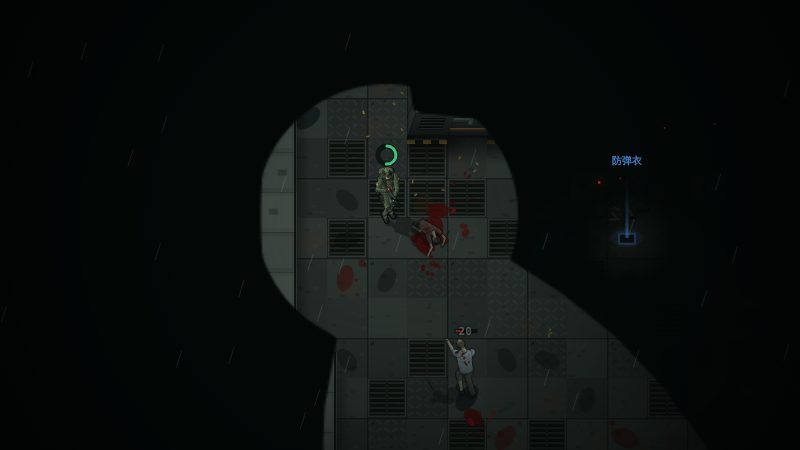
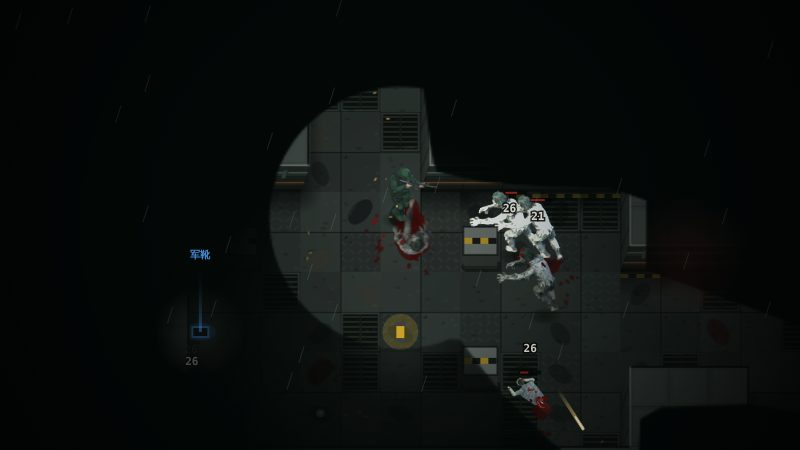
余烬 v11：主角和大部分丧尸改用用户的 3D 模型（离线按游戏镜头预渲染成图集，含走路/攻击/倒地）
Claude-Session: https://claude.ai/code/session_01M8QRZzFkej1E3pGbBVoBb4

diff --git a/yujin/render.js b/yujin/render.js
@@ -19,7 +19,7 @@ Rn.resize = function () {
 const el = (c, x, y, rx, ry, rot) => { c.beginPath(); c.ellipse(x, y, rx, ry, rot || 0, 0, TAU); c.fill(); };
 const circ = (c, x, y, r) => { c.beginPath(); c.arc(x, y, r, 0, TAU); c.fill(); };
 Rn.build = function (L) {
-  CELLS = new Map();
+  CELLS = new Map(); M3.tint.clear();
   const { W, H, g, th } = L, seed = (L.i + 1) * 977, theme = L.def.theme;
   const f = Rn.floor = document.createElement("canvas"), t = Rn.top = document.createElement("canvas"); f.width = t.width = W * T; f.height = t.height = H * T;
   const c = f.getContext("2d"), tc = t.getContext("2d"), at = (x, y) => x < 0 || y < 0 || x >= W || y >= H ? 1 : g[y * W + x];
@@ -348,14 +348,49 @@ function cell(type, v, k, f) { const key = type + v + "_" + k + "_" + f; let c =
   CELLS.set(key, c); return c; }
 function dirK(ang) { let a = ((ang % TAU) + TAU + Math.PI) % TAU - Math.PI, flip = false; if (Math.cos(a) < -1e-6) { a = Math.PI - a; if (a > Math.PI) a -= TAU; flip = true; } return [Math.max(0, Math.min(8, Math.round((a + Math.PI / 2) / (Math.PI / 8)))), flip]; }
 /* 尸体：6 帧倒地 + 血泊扩散；疯跑者倒地后还会抽搐。c 可以是地面图（烙进去永久保留） */
-function drawBody(c, b, k6, jx) { if (!b.key) return drawCorpse(c, b, Math.min(1, k6 / 3), 0); const [k, flip] = dirK(b.face), cl = cell(b.key, b.sv, k, 14 + k6), CL = cl.CL, d = k6 / 6, r = b.r, bx = -Math.cos(b.face) * r * 1.1 * d, by = -Math.sin(b.face) * r * .8 * d;
+/* ---------- 3D 模型角色 ----------
+   用户提供了两个 3D 模型（主角士兵、丧尸，各 30 多万面、无骨骼）。手机上没法实时渲染，所以用 tests/yj-3d/ 按游戏的斜俯视镜头
+   把它们从各个朝向、各个动作预先渲染成图集（m3d/hero.png、m3d/zombie.png，每格的偏移在 m3d/*.js 里），游戏里按朝向和动作取格子画。
+   主角：24 个朝向 ×（走路 8 帧 + 站立 + 倒地 6 帧）；丧尸：16 个朝向 ×（走路 8 + 站立 + 攻击 4 + 倒地 6）。
+   大部分丧尸共用这个丧尸模型，靠换色和缩放区分；爬行者仍用原来的画法。 */
+const M3 = { ok: false, img: {}, tint: new Map() };
+const Z3 = { walker: { k: 1 }, runner: { k: .93, tint: "#f0cdbb" }, spitter: { k: 1, tint: "#bfe98a" }, bloater: { k: 1.32, wx: 1.28, tint: "#aecf96" }, brute: { k: 1.55, tint: "#a3b0c8" }, elite: { k: 1.65, tint: "#f3d6d6" }, elite2: { k: 1.65, tint: "#dd8676" }, boss: { k: 2.1, tint: "#c6a6f4" } };
+(function () { const D = YJ.M3D; if (!D || !D.hero || !D.zombie) return; let left = 2; for (const n of ["hero", "zombie"]) { const im = new Image(); im.onload = () => { M3.img[n] = im; if (--left === 0) M3.ok = true; }; im.src = "m3d/" + n + ".png"; } })();
+/* 取一格（可带换色）。换色的格子用到才生成，换关时清掉 */
+function m3cell(name, row, col, tint) { const D = YJ.M3D[name], cs = D.cs, im = M3.img[name]; if (!tint) return [im, col * cs, row * cs];
+  const key = tint + row + "_" + col; let cv = M3.tint.get(key); if (!cv) { if (M3.tint.size > 700) M3.tint.clear(); cv = document.createElement("canvas"); cv.width = cv.height = cs; const g = cv.getContext("2d"); g.drawImage(im, col * cs, row * cs, cs, cs, 0, 0, cs, cs); g.globalCompositeOperation = "multiply"; g.fillStyle = tint; g.fillRect(0, 0, cs, cs); g.globalCompositeOperation = "destination-in"; g.drawImage(im, col * cs, row * cs, cs, cs, 0, 0, cs, cs); M3.tint.set(key, cv); } return [cv, 0, 0]; }
+function m3draw(c, name, row, col, x, y, k, tint, wx, white, alpha) { const D = YJ.M3D[name], cs = D.cs, o = D.off[row][col], w = D.cell * k, q = m3cell(name, row, col, tint), dx = x + o[0] * k * (wx || 1) - w * (wx || 1) / 2, dy = y + o[1] * k - w / 2;
+  if (alpha != null) c.globalAlpha = alpha; c.drawImage(q[0], q[1], q[2], cs, cs, dx, dy, w * (wx || 1), w);
+  if (white) { c.globalCompositeOperation = "lighter"; c.globalAlpha = white; c.drawImage(q[0], q[1], q[2], cs, cs, dx, dy, w * (wx || 1), w); c.drawImage(q[0], q[1], q[2], cs, cs, dx, dy, w * (wx || 1), w); c.globalCompositeOperation = "source-over"; } c.globalAlpha = 1; }
+const m3dir = (a, n) => ((Math.round(a / (TAU / n)) % n) + n) % n;
+function m3shadow(c, x, y, r) { const g = c.createRadialGradient(x, y, 0, x, y, r); g.addColorStop(0, "rgba(0,0,0,.5)"); g.addColorStop(.6, "rgba(0,0,0,.28)"); g.addColorStop(1, "rgba(0,0,0,0)"); c.save(); c.translate(x, y); c.scale(1, .5); c.translate(-x, -y); c.fillStyle = g; c.beginPath(); c.arc(x, y, r, 0, TAU); c.fill(); c.restore(); }
+function drawPlayer3(c, pl, S, time) { const D = YJ.M3D.hero, dead = G.state === "dead"; if (dead) pl.deadT = pl.deadT === undefined ? time : pl.deadT; else pl.deadT = undefined;
+  const still = gait(pl, 60 * (pl.dashT > 0 ? .5 : 1), dead), col = m3dir(pl.va, D.dirs), row = dead ? 8 + Math.min(6, Math.ceil((time - pl.deadT) / .1 + .01)) : still && pl.dashT <= 0 ? 8 : Math.floor((pl.gp || 0) * 8) & 7;
+  const hit = pl.hurtT > .2, rec = pl.flashT > 0 && !S.B.flame ? 2 : 0, a = col / D.dirs * TAU, x = pl.x - Math.cos(a) * rec, y = pl.y - Math.sin(a) * rec * .7;
+  if (dead) { const dk = (row - 8) / 6; c.fillStyle = "rgba(70,6,6,.85)"; el(c, pl.x - Math.cos(a) * 16 * dk, pl.y - Math.sin(a) * 12 * dk, 26 * dk, 16 * dk, a); }
+  m3shadow(c, pl.x, pl.y + 2, 20); m3draw(c, "hero", row, col, x, y, 1, null, 1, hit ? .6 : 0);
+  const mz = D.muz[col]; Rn.muz = { x: x + mz[0], y: y + mz[1], a: Math.atan2(Math.sin(a) * .77, Math.cos(a)) };
+  if (pl.flashT > 0 && !S.B.flame && !dead) { c.save(); c.translate(Rn.muz.x, Rn.muz.y); c.rotate(Rn.muz.a); const g = c.createRadialGradient(5, 0, 0, 5, 0, 22); g.addColorStop(0, "rgba(255,252,235,1)"); g.addColorStop(.3, "rgba(255,210,90,.9)"); g.addColorStop(.65, "rgba(255,110,30,.5)"); g.addColorStop(1, "rgba(200,40,10,0)"); c.fillStyle = g; c.beginPath(); c.moveTo(0, 0); c.lineTo(12, -9); c.lineTo(10, -2); c.lineTo(30, 0); c.lineTo(10, 2); c.lineTo(12, 9); c.closePath(); c.fill(); c.restore(); } }
+function drawEnemy3(c, e, time, pl) { const key = eKey(e), V = Z3[key], D = YJ.M3D.zombie, k = V.k, fl = e.flash > 0, still = gait(e, 72 * k, e.stag > 0 || e.st === "wind"), pw = e.st === "wind" ? 1 - e.w / e.tele.t : 0;
+  const row = e.st === "wind" && e.tele.type !== "leap" ? 9 + Math.min(1, Math.floor(pw * 2)) : e.atk > 0 ? 9 + Math.min(3, Math.floor((1 - e.atk / .32) * 4)) : still ? 8 : Math.floor((e.gp || 0) * 8) & 7, col = m3dir(e.ang, D.dirs); // 攻击 4 帧 / 站立 / 走路 8 帧
+  const tk = Math.floor(time * 9), jx = e.awake && h2(tk, (e.v * 997) | 0, 3) > .88 ? (h2(tk, 5, (e.v * 99) | 0) - .5) * 2.5 : 0, bk = fl ? 2.5 : e.stag > 0 ? 1.2 : 0; // 偶尔抽搐；受击时往后顿一下
+  m3shadow(c, e.x, e.y + 2, e.r * 1.35); m3draw(c, "zombie", row, col, e.x + jx - Math.cos(e.ang) * bk, e.y - Math.sin(e.ang) * bk, k, V.tint, V.wx, fl ? .65 : 0); e._eyes = null;
+  const top = 58 * k; if (e.type === "spitter" && e.cd < .9 && !fl) { const ch = 1 - Math.max(0, e.cd) / .9; c.fillStyle = `rgba(200,255,110,${.4 + ch * .4})`; circ(c, e.x + Math.cos(e.ang) * 12, e.y - 34 + Math.sin(e.ang) * 9, 3 + ch * 4.5); }
+  if (e.burn > 0) { c.fillStyle = "rgba(255,140,40,.45)"; circ(c, e.x, e.y - 24 * k, e.r * .9); }
+  if (e.slow > 0) { c.strokeStyle = "rgba(140,220,255,.8)"; c.lineWidth = 1.5; c.beginPath(); c.ellipse(e.x, e.y, e.r, e.r * .6, 0, 0, TAU); c.stroke(); }
+  if (e.hp < e.maxhp && !e.E.elite) { const w = Math.max(20, e.r * 1.6); c.fillStyle = "rgba(0,0,0,.7)"; c.fillRect(e.x - w / 2 - 1, e.y - top - 5, w + 2, 4); c.fillStyle = "#b3261c"; c.fillRect(e.x - w / 2, e.y - top - 4, w * Math.max(0, e.hp / e.maxhp), 2); } }
+function drawBody3(c, b, k6, jx) { const key = b.key || "boss", V = Z3[key], D = YJ.M3D.zombie, k = V.k, col = m3dir(b.face, D.dirs), d = k6 / 6, r = b.r, bx = -Math.cos(b.face) * r * 1.3 * d, by = -Math.sin(b.face) * r * 1.0 * d;
+  c.fillStyle = "rgba(64,6,6,.82)"; el(c, b.x + bx, b.y + by, r * 1.9 * d, r * 1.25 * d, b.v * 3); el(c, b.x + bx * 1.8 + r * .5, b.y + by * 1.6 + r * .3, r * .8 * d, r * .5 * d, b.v * 5);
+  m3draw(c, "zombie", 12 + k6, col, b.x + (jx || 0), b.y, k, V.tint, V.wx, 0, k6 >= 6 ? .92 : 1); }
+function drawBody(c, b, k6, jx) { if (M3.ok && b.key !== "crawler") return drawBody3(c, b, k6, jx); if (!b.key) return drawCorpse(c, b, Math.min(1, k6 / 3), 0); const [k, flip] = dirK(b.face), cl = cell(b.key, b.sv, k, 14 + k6), CL = cl.CL, d = k6 / 6, r = b.r, bx = -Math.cos(b.face) * r * 1.1 * d, by = -Math.sin(b.face) * r * .8 * d;
   c.fillStyle = "rgba(64,6,6,.82)"; el(c, b.x + bx, b.y + by, r * 1.9 * d, r * 1.25 * d, b.v * 3); el(c, b.x + bx * 1.8 + r * .5, b.y + by * 1.6 + r * .3, r * .8 * d, r * .5 * d, b.v * 5); el(c, b.x + bx * .4 - r * .9 * d, b.y + by + r * .5 * d, r * .5 * d, r * .32 * d, 1);
   c.save(); c.translate(b.x + (jx || 0), b.y); if (flip) c.scale(-1, 1); c.drawImage(cl.cv, -CL / 2, -CL * .74, CL, CL); c.restore(); }
 function gait(o, cyc, hold) { const mv = Math.hypot(o.x - (o._lx === undefined ? o.x : o._lx), o.y - (o._ly === undefined ? o.y : o._ly)); o._lx = o.x; o._ly = o.y; if (mv > .04 && mv < 30 && !hold) { o.gp = ((o.gp || 0) + mv / cyc) % 1; o.still = 0; } else if (!G.pausedDraw) o.still = (o.still || 0) + 1; return o.still > 7; }
 /* 影子：椭圆，朝背光方向偏移拉长；身体起伏时略微缩放 */
 function shadow(c, x, y, r, ang, k, sm) { c.save(); c.translate(x + Math.cos(ang) * r * .7 * k, y + Math.sin(ang) * r * .7 * k); c.rotate(ang); c.fillStyle = "rgba(0,0,0,.5)"; c.beginPath(); c.ellipse(0, 0, r * (.85 + .6 * k) * sm, r * .5 * sm, 0, 0, TAU); c.fill(); c.restore(); }
-Rn.figure = figure;
+Rn.figure = figure; Rn.M3 = M3;
 function drawPlayer(c, pl, S, time) {
+  if (M3.ok) return drawPlayer3(c, pl, S, time);
   const dead = G.state === "dead"; if (dead) pl.deadT = pl.deadT === undefined ? time : pl.deadT; else pl.deadT = undefined;
   const dk = dead ? Math.min(6, Math.ceil((time - pl.deadT) / .1 + .01)) / 6 : 0; // 死亡 6 帧：后仰倒地
   const stand = (gait(pl, CYC("player"), pl.dashT > 0 || dead) && pl.dashT <= 0) || dead, p = pl.dashT > 0 ? (pl.dashT * 7) % 1 : pl.gp || 0;
@@ -370,6 +405,7 @@ function drawPlayer(c, pl, S, time) {
 }
 function eKey(e) { return e.type === "elite" ? (e.look === "brute" ? "elite2" : "elite") : e.type; }
 function drawEnemy(c, e, time, pl) {
+  if (M3.ok && e.type !== "crawler") return drawEnemy3(c, e, time, pl);
   const E = e.E, r = e.r, fl = e.flash > 0, t = e.type; let top = -r - 16;
   if (t === "boss") { shadow(c, e.x, e.y, r, Math.atan2(e.y - pl.y, e.x - pl.x), 1, 1); const k = r / 13, C = x => fl ? "#fff" : x; c.save(); c.translate(e.x, e.y - 10); c.scale(1, .8); c.rotate(e.ang); c.scale(k, k); c.lineCap = "round";
     for (let i = 0; i < 6; i++) { const a = i / 6 * TAU + Math.sin(time * 2 + i) * .3, p = [Math.cos(a) * 8, Math.sin(a) * 8, Math.cos(a + .5) * 18, Math.sin(a + .5) * 18, Math.cos(a + Math.sin(time * 3 + i) * .6) * 24, Math.sin(a + Math.sin(time * 3 + i) * .6) * 24]; for (const [col, w] of [[OUTC, 5.2], [C("#5a3f6a"), 3.4]]) { c.strokeStyle = col; c.lineWidth = w; c.beginPath(); c.moveTo(p[0], p[1]); c.quadraticCurveTo(p[2], p[3], p[4], p[5]); c.stroke(); } }
@@ -462,7 +498,7 @@ Rn.draw = function (time) {
   // —— 发光的东西画在黑暗之上：曳光弹、火光、爆炸、红眼、掉落光柱 ——
   c.setTransform(dpr * sc, 0, 0, dpr * sc, ox * dpr * sc, oy * dpr * sc); c.globalCompositeOperation = "lighter"; c.lineCap = "round";
   for (const l of Rn.reds) if (vis(l.x, l.y, 60)) { const a = .16 + Math.sin(time * 3 + l.f) * .1, g = c.createRadialGradient(l.x, l.y + 10, 0, l.x, l.y + 10, 60); g.addColorStop(0, `rgba(255,30,20,${a})`); g.addColorStop(1, "rgba(255,30,20,0)"); c.fillStyle = g; c.fillRect(l.x - 60, l.y - 50, 120, 120); }
-  for (const b0 of L.bul) { if (b0.flame || b0.gren || b0.enemy) continue; const b = { x: b0.x, y: b0.y - 30, vx: b0.vx, vy: b0.vy, ex: b0.ex, crit: b0.crit }, l = Math.hypot(b.vx, b.vy), k = (b.ex ? 16 : 46) / l, x0 = b.x - b.vx * k, y0 = b.y - b.vy * k, g = c.createLinearGradient(x0, y0, b.x, b.y), col = b.ex ? "255,140,50" : b.crit ? "255,240,170" : "255,205,110"; g.addColorStop(0, `rgba(${col},0)`); g.addColorStop(1, `rgba(${col},.9)`);
+  for (const b0 of L.bul) { if (b0.flame || b0.gren || b0.enemy) continue; const b = { x: b0.x, y: b0.y - 34, vx: b0.vx, vy: b0.vy, ex: b0.ex, crit: b0.crit }, l = Math.hypot(b.vx, b.vy), k = (b.ex ? 16 : 46) / l, x0 = b.x - b.vx * k, y0 = b.y - b.vy * k, g = c.createLinearGradient(x0, y0, b.x, b.y), col = b.ex ? "255,140,50" : b.crit ? "255,240,170" : "255,205,110"; g.addColorStop(0, `rgba(${col},0)`); g.addColorStop(1, `rgba(${col},.9)`);
     c.strokeStyle = g; c.lineWidth = b.ex ? 6 : 3.4; c.beginPath(); c.moveTo(x0, y0); c.lineTo(b.x, b.y); c.stroke(); c.strokeStyle = "rgba(255,255,240,.95)"; c.lineWidth = b.ex ? 2.4 : 1.1; c.beginPath(); c.moveTo(b.x - b.vx * k * .3, b.y - b.vy * k * .3); c.lineTo(b.x, b.y); c.stroke(); }
   if (pl.flashT > 0 && !S.B.flame && Rn.muz) { const mx = Rn.muz.x, my = Rn.muz.y, g = c.createRadialGradient(mx, my, 0, mx, my, 150); g.addColorStop(0, "rgba(255,190,90,.38)"); g.addColorStop(1, "rgba(255,120,20,0)"); c.fillStyle = g; c.fillRect(mx - 150, my - 150, 300, 300); }
   for (const p of L.parts) if (p.glow) { c.globalAlpha = Math.min(1, p.life / p.max * 1.5); c.fillStyle = p.c; c.fillRect(p.x - p.s / 2, p.y - p.s / 2, p.s, p.s); } c.globalAlpha = 1;

diff --git a/tests/yj-3d/render.html b/tests/yj-3d/render.html
@@ -1,0 +1,53 @@
+<!doctype html><meta charset="utf-8"><body style="margin:0;background:#334"><canvas id="sheet"></canvas>
+<!-- 余烬·尸潮：把用户的 3D 模型（静态、无骨骼）按游戏的斜俯视镜头预渲染成角色图集。
+     模型没有骨骼，这里按几何位置给腿/手臂分组，绕髋/肩转动，做出走路、攻击、倒地的姿势。
+     用法见 tests/yj-3d/render.js -->
+<script type="importmap">{"imports":{"three":"./node_modules/three/build/three.module.js","three/addons/":"./node_modules/three/examples/jsm/"}}</script>
+<script type="module">
+import * as THREE from "three"; import { GLTFLoader } from "three/addons/loaders/GLTFLoader.js";
+const q = new URLSearchParams(location.search), name = q.get("m") || "zombie", D2R = Math.PI / 180;
+const CFG = {
+  hero: { file: "hero.glb", beta: 31, stride: 12, hipY: .50, delta: 32, pivot: [-.10, -.04], dirs: 24, U: 78,
+    legs: [{ hip: [-.18, .50, -.04], foot: [-.29, 0, -.06] }, { hip: [-.02, .50, -.04], foot: [.08, 0, .02] }], tip: [.34, .70, .17],
+    rows: [...Array(8).keys()].map(k => ({ walk: k / 8 })).concat([{}], [1, 2, 3, 4, 5, 6].map(k => ({ dead: k / 6 }))) },
+  zombie: { file: "zombie.glb", beta: 90, stride: 90, hipY: .42, delta: 46, pivot: [0, -.11], dirs: 16, U: 78,
+    legs: [{ hip: [-.10, .42, -.14], foot: [-.11, 0, -.46] }, { hip: [.05, .42, -.08], foot: [.01, 0, .02] }],
+    arms: [{ sh: [-.17, .74, .08], hand: [-.17, .47, .46] }, { sh: [.17, .74, .08], hand: [.19, .47, .46] }],
+    rows: [...Array(8).keys()].map(k => ({ walk: k / 8 })).concat([{ walk: .25, still: 1 }], [[25, 5], [36, 8], [-26, -14], [-10, -6]].map(([arm, lean]) => ({ walk: .25, still: 1, arm, lean })), [1, 2, 3, 4, 5, 6].map(k => ({ dead: k / 6 }))) }
+};
+const C = CFG[name], CELL = 112, RES = 1.25, CS = Math.round(CELL * RES), SSAA = 3, PHI = 50 * D2R, sm = (a, b, x) => { const t = Math.max(0, Math.min(1, (x - a) / (b - a))); return t * t * (3 - 2 * t); };
+const rd = new THREE.WebGLRenderer({ antialias: true, alpha: true, preserveDrawingBuffer: true }); rd.setSize(CS * SSAA, CS * SSAA, false); rd.setClearColor(0, 0); rd.outputColorSpace = THREE.SRGBColorSpace;
+const scene = new THREE.Scene(); scene.add(new THREE.HemisphereLight(0xdfe8ff, 0x3a3a34, 2.0)); const key = new THREE.DirectionalLight(0xfff4e0, 2.4); key.position.set(-2.5, 5, 3); scene.add(key); const rim = new THREE.DirectionalLight(0x9fc0ff, .9); rim.position.set(3, 2, -3); scene.add(rim);
+const cam = new THREE.OrthographicCamera(-1, 1, 1, -1, .1, 30); cam.position.set(0, Math.sin(PHI) * 8, Math.cos(PHI) * 8); cam.lookAt(0, 0, 0);
+new GLTFLoader().load(C.file, g => { let mesh; g.scene.traverse(o => { if (o.isMesh) mesh = o; }); scene.add(g.scene); if (mesh.material) { mesh.material.metalness = 0; mesh.material.roughness = .85; }
+  const geo = mesh.geometry, P0 = geo.attributes.position.array.slice(), N0 = geo.attributes.normal.array.slice(), n = P0.length / 3, P = geo.attributes.position.array, N = geo.attributes.normal.array;
+  const sa = C.stride * D2R, sx = Math.cos(sa), sz = Math.sin(sa); // 迈步方向（模型水平面内）
+  // —— 给每个顶点分组：属于哪条腿 / 哪只手臂，权重多少 ——
+  const WL = new Float32Array(n), LI = new Uint8Array(n), WA = new Float32Array(n), AI = new Uint8Array(n);
+  for (let i = 0; i < n; i++) { const x = P0[i * 3], y = P0[i * 3 + 1], z = P0[i * 3 + 2]; let wa = 0;
+    if (C.arms) for (let k = 0; k < 2; k++) { const A = C.arms[k], dx = A.hand[0] - A.sh[0], dy = A.hand[1] - A.sh[1], dz = A.hand[2] - A.sh[2], L2 = dx * dx + dy * dy + dz * dz, t = ((x - A.sh[0]) * dx + (y - A.sh[1]) * dy + (z - A.sh[2]) * dz) / L2, tc = Math.max(0, Math.min(1.25, t)), d = Math.hypot(x - A.sh[0] - dx * tc, y - A.sh[1] - dy * tc, z - A.sh[2] - dz * tc), w = (1 - sm(.08, .13, d)) * sm(.04, .3, t); if (w > wa) { wa = w; AI[i] = k; } }
+    WA[i] = wa; let best = 1e9; for (let k = 0; k < 2; k++) { const Lg = C.legs[k], t = Math.max(0, Math.min(1, (Lg.hip[1] - y) / Lg.hip[1])), cx = Lg.hip[0] + (Lg.foot[0] - Lg.hip[0]) * t, cz = Lg.hip[2] + (Lg.foot[2] - Lg.hip[2]) * t, d = Math.hypot(x - cx, z - cz); if (d < best) { best = d; LI[i] = k; } }
+    WL[i] = (1 - sm(C.hipY - .10, C.hipY + .03, y)) * (1 - wa) * (best < .2 ? 1 : 0); }
+  const rot = (i, J, ang, w) => { if (!w) return; const c = Math.cos(ang), s = Math.sin(ang), dx = P[i * 3] - J[0], dy = P[i * 3 + 1] - J[1], dz = P[i * 3 + 2] - J[2], ds = dx * sx + dz * sz, dl = -dx * sz + dz * sx, ds2 = ds * c - dy * s, dy2 = ds * s + dy * c, nx = J[0] + ds2 * sx - dl * sz, ny = J[1] + dy2, nz = J[2] + ds2 * sz + dl * sx;
+    P[i * 3] += (nx - P[i * 3]) * w; P[i * 3 + 1] += (ny - P[i * 3 + 1]) * w; P[i * 3 + 2] += (nz - P[i * 3 + 2]) * w;
+    const ax = N[i * 3], ay = N[i * 3 + 1], az = N[i * 3 + 2], as = ax * sx + az * sz, al = -ax * sz + az * sx, as2 = as * c - ay * s, ay2 = as * s + ay * c; N[i * 3] += (as2 * sx - al * sz - ax) * w; N[i * 3 + 1] += (ay2 - ay) * w; N[i * 3 + 2] += (as2 * sz + al * sx - az) * w; };
+  function poseTo(o) { P.set(P0); N.set(N0); const ph = (o.walk || 0) * 2 * Math.PI, d = C.delta * D2R, sw = (1 - Math.cos(ph)) / 2, legA = [d * sw, -d * sw], dead = o.dead || 0, lean = (o.lean || 0) * D2R, arm = (o.arm || 0) * D2R;
+    const lift = [Math.max(0, Math.sin(ph)) * .035, Math.max(0, -Math.sin(ph)) * .035], asw = C.arms ? [Math.sin(ph) * 7 * D2R + arm, -Math.sin(ph) * 7 * D2R + arm] : null, pel = [C.pivot[0], C.hipY, C.pivot[1]];
+    for (let i = 0; i < n; i++) { const k = LI[i], wl = WL[i]; if (wl) { rot(i, C.legs[k].hip, legA[k] * (1 - dead * .6), wl); P[i * 3 + 1] += lift[k] * wl * (1 - dead); }
+      if (WA[i]) rot(i, C.arms[AI[i]].sh, asw[AI[i]] + dead * 55 * D2R, WA[i]);
+      if (lean) rot(i, pel, lean, sm(C.hipY - .03, C.hipY + .12, P0[i * 3 + 1]) * (1 - wl)); }
+    let ymin = 1e9; for (let i = 0; i < n; i += 3) if (P[i * 3 + 1] < ymin) ymin = P[i * 3 + 1];
+    if (dead) { const a = dead * dead * 86 * D2R, J = [C.pivot[0] - sx * .12, ymin, C.pivot[1] - sz * .12]; for (let i = 0; i < n; i++) rot(i, J, a, 1); ymin = 1e9; for (let i = 0; i < n; i += 3) if (P[i * 3 + 1] < ymin) ymin = P[i * 3 + 1]; } // 向后仰倒
+    for (let i = 0; i < n; i++) P[i * 3 + 1] -= ymin; geo.attributes.position.needsUpdate = true; geo.attributes.normal.needsUpdate = true; geo.computeBoundingSphere(); }
+  const sheet = document.getElementById("sheet"); sheet.width = C.dirs * CS; sheet.height = C.rows.length * CS; const sg = sheet.getContext("2d"); sg.imageSmoothingQuality = "high";
+  const meta = { cs: CS, cell: CELL, dirs: C.dirs, rows: C.rows.length, U: C.U, off: [], muz: [] }, half = CELL / 2 / C.U, cp = Math.cos(PHI), sp = Math.sin(PHI), beta = C.beta * D2R;
+  mesh.frustumCulled = false; const root = g.scene;
+  C.rows.forEach((o, r) => { poseTo(o); const offs = [];
+    for (let c = 0; c < C.dirs; c++) { const a = c / C.dirs * 2 * Math.PI, rho = beta - a, cr = Math.cos(rho), sr = Math.sin(rho); root.rotation.y = rho; const px = C.pivot[0], pz = C.pivot[1]; root.position.set(-(px * cr + pz * sr), 0, -(-px * sr + pz * cr)); root.updateMatrixWorld(true);
+      let x0 = 1e9, x1 = -1e9, y0 = 1e9, y1 = -1e9; for (let i = 0; i < n; i += 11) { const x = P[i * 3], y = P[i * 3 + 1], z = P[i * 3 + 2], X = x * cr + z * sr + root.position.x, Z = -x * sr + z * cr + root.position.z, sy = y * cp - Z * sp; if (X < x0) x0 = X; if (X > x1) x1 = X; if (sy < y0) y0 = sy; if (sy > y1) y1 = sy; }
+      const bx = (x0 + x1) / 2, by = (y0 + y1) / 2; cam.left = bx - half; cam.right = bx + half; cam.top = by + half; cam.bottom = by - half; cam.updateProjectionMatrix(); rd.render(scene, cam);
+      sg.drawImage(rd.domElement, c * CS, r * CS, CS, CS); offs.push([Math.round(bx * C.U * 10) / 10, Math.round(-by * C.U * 10) / 10]);
+      if (r === 8 && C.tip) { const x = C.tip[0], y = C.tip[1], z = C.tip[2], X = x * cr + z * sr + root.position.x, Z = -x * sr + z * cr + root.position.z; meta.muz.push([Math.round(X * C.U * 10) / 10, Math.round(-(y * cp - Z * sp) * C.U * 10) / 10]); } }
+    meta.off.push(offs); });
+  window.result = { meta, png: sheet.toDataURL("image/png") }; }, undefined, e => { window.err = String(e); });
+</script>

diff --git a/yujin/m3d/hero.js b/yujin/m3d/hero.js
@@ -1,0 +1,2 @@
+/* 由 tests/yj-3d/render.js 生成 */
+(YJ.M3D = YJ.M3D || {}).hero = {"cs":140,"cell":112,"dirs":24,"rows":15,"U":78,"off":[[[9.7,-21.4],[9.5,-22.3],[7.9,-21.2],[5.7,-19.4],[2.7,-18],[-1.5,-17.2],[-3.1,-16.9],[-2.9,-17.2],[-2.8,-18],[-5.9,-19.3],[-7.8,-21],[-9.1,-23],[-9.7,-24.8],[-9.5,-26.4],[-7.9,-26.1],[-5.7,-25.4],[-2.7,-24.9],[1.5,-25.9],[3.1,-25.9],[2.9,-25.2],[2.8,-23.9],[5.9,-22.2],[7.8,-20.3],[9.1,-20.7]],[[11.1,-22.6],[10.9,-23.2],[9.4,-21.5],[7.1,-20],[2.7,-18.9],[-1.5,-18.2],[-3.1,-18.1],[-2.9,-18.4],[-2.8,-19.3],[-6.5,-20.5],[-8.7,-22],[-10.3,-23.7],[-11.1,-25.5],[-10.9,-26.7],[-9.4,-27.1],[-7.1,-26.6],[-2.7,-26.4],[1.5,-27.5],[3.1,-27.8],[2.9,-27.2],[2.8,-25.9],[6.5,-24],[8.7,-22],[10.3,-22.1]],[[13.2,-24.3],[13.1,-23.4],[10.9,-22.4],[7.1,-21.6],[2.7,-21.1],[-1.5,-21],[-3.1,-21.2],[-2.9,-21.7],[-2.8,-22.5],[-6.7,-23.5],[-10,-24.6],[-12,-25.8],[-13.2,-27],[-13.1,-27.7],[-10.9,-28.3],[-7.1,-28.5],[-2.7,-28.9],[1.5,-30.5],[3.1,-31.3],[2.9,-30.8],[2.8,-29.5],[6.7,-27.4],[10,-24.9],[12,-24.6]],[[13.2,-23.6],[13.2,-23.1],[10.9,-22.8],[7.1,-22.8],[2.7,-22.9],[-1.5,-23.3],[-3.1,-23.7],[-2.9,-24.3],[-2.8,-25],[-6.7,-25.8],[-10,-26.2],[-12,-26.7],[-13.2,-27.2],[-13.2,-27.7],[-10.9,-28.3],[-7.1,-28.4],[-2.7,-28.7],[1.5,-30.2],[3.1,-30.9],[2.9,-30.7],[2.8,-29.7],[6.7,-27.7],[10,-25],[12,-24.3]],[[13,-23.1],[12.7,-22.9],[10.9,-22.7],[7.1,-22.1],[2.7,-21.7],[-1.5,-21.6],[-3.1,-21.9],[-2.9,-22.5],[-2.8,-23.2],[-6.7,-24.1],[-10,-24.7],[-12,-25.3],[-13,-26.1],[-12.7,-26.8],[-10.9,-28],[-7.1,-27.9],[-2.7,-27.9],[1.5,-29.3],[3.1,-29.9],[2.9,-29.7],[2.8,-28.7],[6.7,-26.5],[10,-24],[12,-23.4]],[[13.2,-23.7],[13.2,-23.1],[10.9,-22.5],[7.1,-22.1],[2.7,-22],[-1.5,-22.1],[-3.1,-22.5],[-2.9,-23.1],[-2.8,-23.8],[-6.7,-24.5],[-10,-25],[-12,-25.5],[-13.2,-26],[-13.2,-26.5],[-10.9,-27.4],[-7.1,-28.2],[-2.7,-28.7],[1.5,-30.2],[3.1,-30.9],[2.9,-30.8],[2.8,-29.8],[6.7,-27.7],[10,-25],[12,-24.3]],[[13.2,-23.1],[13.1,-23],[10.9,-23],[7.1,-22.2],[2.7,-21.7],[-1.5,-21.6],[-3.1,-21.8],[-2.9,-22.3],[-2.8,-23.1],[-6.7,-24],[-10,-25.2],[-12,-26.4],[-13.2,-27],[-13.1,-26.9],[-10.9,-27.1],[-7.1,-27.3],[-2.7,-27.7],[1.5,-29.3],[3.1,-30.1],[2.9,-29.6],[2.8,-28.3],[6.7,-26.2],[10,-23.8],[12,-23.4]],[[11.1,-22],[10.9,-22.6],[9.4,-22.1],[7.1,-20.6],[2.7,-19.5],[-1.5,-18.9],[-3.1,-18.7],[-2.9,-19.1],[-2.8,-19.9],[-6.5,-21.1],[-8.7,-22.6],[-10.3,-24.4],[-11.1,-26.1],[-10.9,-26.9],[-9.4,-26.4],[-7.1,-26],[-2.7,-25.8],[1.5,-26.9],[3.1,-27.2],[2.9,-26.5],[2.8,-25.2],[6.5,-23.4],[8.7,-21.4],[10.3,-21.5]],[[9.7,-21.4],[9.5,-22.3],[7.9,-21.2],[5.7,-19.4],[2.7,-18],[-1.5,-17.2],[-3.1,-16.9],[-2.9,-17.2],[-2.8,-18],[-5.9,-19.3],[-7.8,-21],[-9.1,-23],[-9.7,-24.8],[-9.5,-26.4],[-7.9,-26.1],[-5.7,-25.4],[-2.7,-24.9],[1.5,-25.9],[3.1,-25.9],[2.9,-25.2],[2.8,-23.9],[5.9,-22.2],[7.8,-20.3],[9.1,-20.7]],[[8.6,-21.2],[8.3,-22.4],[6.8,-22],[4.7,-20.5],[0.9,-19.5],[-2.8,-18.8],[-3.8,-18.7],[-3,-19.1],[-2.3,-19.9],[-5.3,-21],[-7,-22.5],[-8.1,-24.3],[-8.6,-25.8],[-8.3,-27.1],[-6.8,-26.1],[-4.7,-25.1],[-0.9,-24.9],[2.8,-25.7],[3.8,-25.7],[3,-25],[2.3,-23.7],[5.3,-22],[7,-20],[8.1,-20.3]],[[4.3,-20.6],[3.4,-22.7],[1.4,-24.5],[-1.6,-23.9],[-4.6,-23.7],[-6.5,-23.7],[-6,-24.1],[-3.5,-24.6],[-1,-25.4],[-2.5,-26.2],[-3.7,-27.2],[-4.4,-28.1],[-4.3,-28.5],[-3.4,-28.1],[-1.4,-26],[1.6,-24.2],[4.6,-24.7],[6.5,-25],[6,-24.8],[3.5,-23.9],[1,-22.7],[2.5,-21.3],[3.7,-19.6],[4.4,-18.8]],[[-6.4,-18.9],[-7.3,-22.5],[-8.5,-26.3],[-9.9,-29],[-10.8,-30.2],[-10.8,-31.4],[-9.3,-32.5],[-4.3,-33.5],[1.4,-34.1],[3,-34.4],[4.3,-34.3],[5.3,-33.7],[6.4,-32.4],[7.3,-28.8],[8.5,-25.1],[9.9,-24.2],[10.8,-23.6],[10.8,-22.9],[9.3,-22.3],[4.3,-21.2],[-1.4,-20.1],[-3,-19.1],[-4.3,-18.2],[-5.3,-17.6]],[[-16.2,-16.7],[-18,-20.6],[-18.6,-26.3],[-18.7,-32],[-18.1,-37.3],[-16,-40.3],[-12.3,-42.6],[-5.4,-44.1],[4.2,-44.5],[7.7,-43.9],[10.9,-42.2],[13.9,-38.9],[16.2,-33.6],[18,-27.9],[18.6,-24.9],[18.7,-22.4],[18.1,-20.1],[16,-18.1],[12.3,-16.6],[5.4,-15.4],[-4.2,-14.5],[-7.7,-14.1],[-10.9,-14.4],[-13.9,-15.3]],[[-30.1,-13.1],[-32.8,-17.5],[-33.2,-23.3],[-31.3,-30.8],[-27.3,-37.7],[-22,-43.5],[-15.8,-47.8],[-6.5,-50.2],[6.6,-50.5],[13,-48.8],[19.4,-44.8],[25.5,-38.8],[30.1,-32.1],[32.8,-27.2],[33.2,-22.2],[31.3,-17.3],[27.3,-12.9],[22,-6.7],[15.8,-1.9],[6.5,-0.3],[-6.6,0.3],[-13,0],[-19.4,-2.6],[-25.5,-8.1]],[[-43.1,-0.3],[-46.7,-10.4],[-46.7,-19],[-43.4,-26.2],[-37,-32.9],[-28.2,-38.7],[-18.1,-43.7],[-7.3,-46.6],[9,-46.9],[18.2,-45],[28.3,-41.5],[36.9,-36.1],[43.1,-29.6],[46.7,-22.4],[46.7,-14.4],[43.4,-3.4],[37,3.2],[28.2,8.8],[18.1,13.5],[7.3,16],[-9,16.1],[-18.2,13.9],[-28.3,10.5],[-36.9,5.8]]],"muz":[[37.9,-37.9],[37.5,-30.3],[34.6,-23],[29.3,-16.6],[22.1,-11.4],[13.3,-7.8],[3.6,-6.1],[-6.3,-6.4],[-15.8,-8.6],[-24.2,-12.6],[-31,-18.2],[-35.6,-24.9],[-37.9,-32.3],[-37.5,-39.9],[-34.6,-47.2],[-29.3,-53.6],[-22.1,-58.8],[-13.3,-62.4],[-3.6,-64.1],[6.3,-63.8],[15.8,-61.6],[24.2,-57.6],[31,-52],[35.6,-45.3]]};

diff --git a/yujin/m3d/zombie.js b/yujin/m3d/zombie.js
@@ -1,0 +1,2 @@
+/* 由 tests/yj-3d/render.js 生成 */
+(YJ.M3D = YJ.M3D || {}).zombie = {"cs":140,"cell":112,"dirs":16,"rows":19,"U":78,"off":[[[8.6,-21.1],[7.7,-19.7],[6.8,-15.5],[5.6,-12.5],[0,-12.4],[-10.7,-14.6],[-12.8,-17.7],[-12.1,-21.3],[-8.6,-26.9],[-7.7,-29.9],[-6.8,-28.3],[-5.6,-26.1],[0,-23.6],[10.7,-21.3],[12.8,-20],[12.1,-19.9]],[[11.3,-21.5],[8.6,-20.6],[7.6,-16.5],[6,-13.5],[0,-13.3],[-11.1,-15.2],[-14.4,-18.6],[-14.2,-22.2],[-11.3,-27.4],[-8.6,-31],[-7.6,-29.9],[-6,-27.9],[0,-25.4],[11.1,-23.1],[14.4,-21.5],[14.2,-20.9]],[[16.1,-22.3],[12.8,-22.6],[11,-18.8],[7.8,-15.7],[0,-15.5],[-11.3,-17.3],[-17.1,-20.6],[-18.2,-25.4],[-16.1,-29.1],[-12.8,-32.7],[-11,-33.7],[-7.8,-32.2],[0,-30.1],[11.3,-27.4],[17.1,-25],[18.2,-23.2]],[[16.6,-23],[15.4,-21.7],[14.2,-20.2],[9.4,-17.1],[0,-16.9],[-11.1,-18.8],[-15.7,-22.2],[-17.5,-27.8],[-16.6,-31.2],[-15.4,-33.5],[-14.2,-34.9],[-9.4,-35],[0,-34.6],[11.1,-32.1],[15.7,-28.7],[17.5,-25.5]],[[14.2,-23.6],[14.8,-21.5],[14.4,-20.4],[9.9,-18],[0,-17.9],[-10.7,-20.1],[-14,-23.6],[-15.2,-29.3],[-14.2,-32.8],[-14.8,-34.5],[-14.4,-35.6],[-9.9,-35.7],[0,-35.3],[10.7,-34.2],[14,-30.5],[15.2,-26.7]],[[15.7,-23.6],[16.8,-22.3],[15.3,-21.1],[10,-18.1],[0,-18],[-10.3,-20.5],[-14.4,-24.1],[-15.7,-29.9],[-15.7,-33.1],[-16.8,-35.3],[-15.3,-36.8],[-10,-36.9],[0,-35.5],[10.3,-32.7],[14.4,-29.7],[15.7,-26.4]],[[15.1,-23.2],[14.8,-23.5],[12.5,-20.1],[8.7,-17.1],[0,-17],[-10.1,-19.6],[-15.2,-23.3],[-15.7,-28],[-15.1,-31.8],[-14.8,-34.4],[-12.5,-34.5],[-8.7,-33.1],[0,-31],[10.1,-28.7],[15.2,-26.7],[15.7,-24.6]],[[10.4,-21.8],[10,-22.1],[8.6,-17.1],[6.6,-14.1],[0,-14.1],[-10.3,-16.5],[-13.1,-20.2],[-12.4,-23.7],[-10.4,-29],[-10,-31.3],[-8.6,-30.2],[-6.6,-28.2],[0,-25.8],[10.3,-23.4],[13.1,-22.2],[12.4,-21.6]],[[16.1,-22.3],[12.8,-22.6],[11,-18.8],[7.8,-15.7],[0,-15.5],[-11.3,-17.3],[-17.1,-20.6],[-18.2,-25.4],[-16.1,-29.1],[-12.8,-32.7],[-11,-33.7],[-7.8,-32.2],[0,-30.1],[11.3,-27.4],[17.1,-25],[18.2,-23.2]],[[18.5,-23.5],[15.5,-23.3],[12.9,-21.9],[8.9,-18.7],[0,-18.9],[-12.2,-21.2],[-18.5,-24.2],[-20.4,-26.4],[-18.5,-29.8],[-15.5,-33.3],[-12.9,-36.9],[-8.9,-37],[0,-35.1],[12.2,-31.1],[18.5,-29.1],[20.4,-25.8]],[[18.4,-24.6],[15.5,-23.6],[12.9,-23],[8.9,-20.6],[0,-20.9],[-12,-23.2],[-18.5,-24.8],[-20.4,-27],[-18.4,-30.1],[-15.5,-35.7],[-12.9,-39.1],[-8.9,-39.2],[0,-37],[12,-33.5],[18.5,-31.5],[20.4,-28.3]],[[11.8,-20.9],[9.1,-20.5],[6.5,-15.2],[5.3,-12.5],[0,-12.8],[-9.2,-14.6],[-13.2,-16.8],[-13,-21.6],[-11.8,-26.9],[-9.1,-31.7],[-6.5,-33.8],[-5.3,-33.2],[0,-31.2],[9.2,-28.2],[13.2,-25.1],[13,-22.3]],[[14.3,-21.7],[10.9,-21.8],[9.6,-17.2],[7,-13.9],[0,-13.8],[-10.6,-15.2],[-16.2,-18.5],[-16.4,-23.9],[-14.3,-28.2],[-10.9,-32.4],[-9.6,-33.9],[-7,-32.8],[0,-30.6],[10.6,-27.9],[16.2,-25.2],[16.4,-22.9]],[[9.3,-21.7],[8,-21.2],[7,-17.8],[5.7,-15.7],[0,-15.3],[-10.8,-16.6],[-13.2,-19.4],[-12.6,-22.9],[-9.3,-28.1],[-8,-30.1],[-7,-28.1],[-5.7,-25.6],[0,-23.1],[10.8,-22.4],[13.2,-21.7],[12.6,-20.9]],[[7.1,-24],[5.5,-25.4],[5.2,-23],[4.8,-21.5],[0,-21.2],[-8.7,-22.5],[-11.3,-24.5],[-10.2,-27.6],[-7.1,-31.3],[-5.5,-30.5],[-5.2,-29.4],[-4.8,-27.8],[0,-25.2],[8.7,-24.7],[11.3,-24.5],[10.2,-23.7]],[[0.3,-28],[-0.7,-30.7],[0.6,-31.5],[2.4,-30.9],[0,-31.6],[-4,-32.6],[-5.3,-33.7],[-3.7,-35],[-0.3,-35.3],[0.7,-33.5],[-0.6,-32],[-2.4,-29.4],[0,-26.2],[4,-25.4],[5.3,-26.1],[3.7,-27.1]],[[-14.5,-32.7],[-14.3,-36.8],[-10.5,-40.7],[-4.9,-44.6],[0,-46.1],[4,-46.2],[8.2,-45.2],[12.6,-42.8],[14.5,-39.5],[14.3,-35.6],[10.5,-31.4],[4.9,-26.8],[0,-23],[-4,-22.2],[-8.2,-24.8],[-12.6,-28.4]],[[-28.3,-34.1],[-27.3,-42.6],[-22.6,-49.6],[-15.2,-53.9],[0,-57.1],[15,-57.1],[21.1,-54],[25.9,-49.1],[28.3,-41.6],[27.3,-32.7],[22.6,-24.2],[15.2,-17.2],[0,-12.7],[-15,-12.6],[-21.1,-18.1],[-25.9,-25.6]],[[-45.4,-28.7],[-43,-41.3],[-34.3,-52],[-22.4,-59],[0,-62.1],[19.9,-62.7],[33.4,-58],[42.2,-48.7],[45.4,-36.1],[43,-21.3],[34.3,-5.2],[22.4,1.6],[0,3.8],[-19.9,2.3],[-33.4,-3.4],[-42.2,-16]]],"muz":[]};

diff --git a/tests/yj-3d/render.js b/tests/yj-3d/render.js
@@ -1,0 +1,11 @@
+// 用法（在仓库根目录）：
+//   cd tests/yj-3d && npm i three@0.170.0 && ln -s "../../yujin/military soldier 3d model (3).glb" hero.glb && ln -s "../../yujin/zombie 3d model (2).glb" zombie.glb
+//   python3 -m http.server 8766 &    然后  node render.js hero  /  node render.js zombie
+// 输出 yujin/m3d/<name>.png（角色图集）和 yujin/m3d/<name>.js（每格的偏移、枪口位置）
+const { chromium } = require("playwright"), fs = require("fs"), path = require("path");
+(async () => { const name = process.argv[2], out = path.join(__dirname, "../../yujin/m3d"); fs.mkdirSync(out, { recursive: true });
+  const b = await chromium.launch({ args: ["--use-gl=swiftshader", "--enable-unsafe-swiftshader", "--ignore-gpu-blocklist"] }); const p = await b.newPage({ viewport: { width: 800, height: 600 } }); p.on("pageerror", e => console.log("ERR", e.message));
+  await p.goto("http://localhost:8766/render.html?m=" + name); await p.waitForFunction(() => window.result || window.err, null, { timeout: 0 });
+  const r = await p.evaluate(() => window.err ? { err: window.err } : window.result); if (r.err) { console.log(r.err); process.exit(1); }
+  fs.writeFileSync(path.join(out, name + ".png"), Buffer.from(r.png.split(",")[1], "base64")); fs.writeFileSync(path.join(out, name + ".js"), "/* 由 tests/yj-3d/render.js 生成 */\n(YJ.M3D = YJ.M3D || {})." + name + " = " + JSON.stringify(r.meta) + ";\n");
+  console.log(name, "ok", r.meta.dirs + "x" + r.meta.rows, fs.statSync(path.join(out, name + ".png")).size >> 10, "KB"); await b.close(); })();

diff --git a/yujin/sw.js b/yujin/sw.js
@@ -1,6 +1,6 @@
 // 离线缓存：先用网络取最新版（绕过浏览器 HTTP 缓存），断网时用缓存。改了文件就把版本号 +1
-const CACHE = "yujin-v10";
-const FILES = ["./", "./index.html", "./data.js", "./game.js", "./render.js", "./audio.js", "./ui.js", "./manifest.webmanifest", "./icon-180.png", "./icon-192.png", "./icon-512.png"];
+const CACHE = "yujin-v11";
+const FILES = ["./", "./index.html", "./data.js", "./game.js", "./render.js", "./audio.js", "./ui.js", "./manifest.webmanifest", "./icon-180.png", "./icon-192.png", "./icon-512.png", "./m3d/hero.js", "./m3d/zombie.js", "./m3d/hero.png", "./m3d/zombie.png"];
 self.addEventListener("install", e => { e.waitUntil(caches.open(CACHE).then(c => c.addAll(FILES))); self.skipWaiting(); });
 self.addEventListener("activate", e => { e.waitUntil(caches.keys().then(ks => Promise.all(ks.filter(k => k !== CACHE).map(k => caches.delete(k))))); self.clients.claim(); });
 self.addEventListener("fetch", e => {

diff --git a/yujin/index.html b/yujin/index.html
@@ -164,6 +164,6 @@ button{font:inherit;color:inherit;border:0;background:none;cursor:pointer;touch-
     <div class="stk" id="stkL" hidden><i></i></div><div class="stk" id="stkR" hidden><i></i></div>
   </div></div>
 <script>window.YJ = {};</script>
-<script src="data.js"></script><script src="game.js"></script><script src="render.js"></script><script src="audio.js"></script><script src="ui.js"></script>
+<script src="data.js"></script><script src="game.js"></script><script src="m3d/hero.js"></script><script src="m3d/zombie.js"></script><script src="render.js"></script><script src="audio.js"></script><script src="ui.js"></script>
 </body>
 </html>

diff --git a/yujin/data.js b/yujin/data.js
@@ -1,5 +1,5 @@
 /* 余烬·尸潮 — 数据：武器、装备词条、天赋、敌人、关卡、剧情 */
-window.YJ = { TILE: 40, VERSION: "余烬 v10 · 恢复感染者版" };
+window.YJ = { TILE: 40, VERSION: "余烬 v11 · 3D 模型角色" };
 
 YJ.RAR = [{ n: "普通", c: "#B9B9B9" }, { n: "精良", c: "#4FA3FF" }, { n: "稀有", c: "#FFD23F" }, { n: "传说", c: "#FF7A2F" }];
 YJ.SLOTS = { weapon: "武器", armor: "护甲", boots: "靴子", charm: "饰品" };

diff --git a/CLAUDE.md b/CLAUDE.md
@@ -8,7 +8,7 @@
 ## 这是什么
 网站根目录是一个**游戏大厅**（`index.html`，总入口，列出所有游戏），每个游戏放在自己的文件夹里。目前三个游戏：
 - `qingshu/` = **情书·宫廷传书**：回合制猜牌小游戏（2–6 人，先集满 ❤ 者胜）。牌值 0–9：4 人及以下用 16 张经典牌（8 种），5–6 人自动用 21 张扩展牌（多了 0 细作 ×2、6 国公 ×2，侍卫 6 张）；`CARDS[v].n/nx` 分别是两种牌组的张数，`deckFor(nP)` 生成牌组。国公打出后进入 `phase:"chancellor"`，等该玩家发 `keep` 事件选留牌，其余 `unshift` 回牌库底。细作在 `endRound` 结算。牌库摸空时所有在局者亮牌，**同大一起得 ❤**（`endRound` 接受数组）；每轮扣下的暗牌 `aside` 轮末公布。引擎的 `sim.fx` 是出牌/亮牌特效记录，界面按顺序播（`playFx`/`playShowdown`），轮次结算面板要等动画播完（`maybeShowRound`）；皇后的记录不带任何说明，避免泄露"被迫打出"。文件：`sim.js`（规则引擎 + 电脑 `botDecide`，导出 `window.QS`）、`app.js`（流程与界面）、`art.js`（八种牌的 SVG 徽记）、`net.js`（从苍澜复制并改：房间带 `game:"qs"` 标记，资料存在用户文档的 `qs` 字段下）、`index.html`、`sw.js`（缓存 `qingshu-vN`）。不是锁步实时推演：每次收到事件列表就按服务器时间排序**从头重算整局**（几百条事件瞬间算完），只有房主代电脑出牌、轮次结束 4.5 秒后发 `next` 事件开下一轮。隐藏信息（手牌）只是界面不显示，引擎里所有人都算得出来——朋友间玩够用。测试：`node tests/qs-replay.js`（60 局电脑互打重放一致）、`node tests/qs-ui.js`（单机自动打完一整局）。
-- `yujin/` = **余烬·尸潮**：单人俯视角丧尸射击 + 刷装备（类孤胆枪手 + 流放之路），**不联网、不登录**，存档在 `localStorage yj.save`。Canvas 2D，格子地图（`YJ.TILE=40`，房间+走廊随机生成），手电筒视野用射线（`YJ.ray`）算光照多边形。文件：`data.js`（武器/词条/传说特效/天赋/敌人/5 个关卡 `YJ.LEVELS`/过场剧情 `YJ.SCENES`，版本号 `YJ.VERSION`）、`game.js`（引擎：地图生成、敌人 AI、子弹、掉落、关卡目标、测试用自动驾驶）、`render.js`（地面/墙顶两层预渲染 + 光照）、`audio.js`（现场合成音效与氛围乐，`YJ.Audio.play/mood/tension`）、`ui.js`（标题、过场动画 `UI.cutscene` 的手绘背景 `PAINT`、安全屋、背包/天赋面板、HUD、触屏双摇杆/键鼠、主循环）、`index.html`、`sw.js`（缓存 `yujin-vN`）。流程：标题 → 过场 → 安全屋（整理装备）→ 关卡 → 到出口后要「守门」若干秒（`L.holdOn/holdP`）→ 结算 → 下一段过场。关卡目标五种：exit / collect / elite / activate / boss。通关后 `P.ng+1` 进噩梦难度（敌人等级 `L.lvl = def.lvl + ng*8`）。**画面风格（v2 起）**：阴暗金属基地（钢板/铁栅格/管道/警示条，五个主题只是配色不同），大面积黑暗 + 手电锥形光，枪口火光和爆炸瞬间照亮；角色分层画出 2.5D 立体感（`lay()`：脚、身体、头依次抬高，墙高 `WH=24`）；曳光弹、红眼、火光画在黑暗层之上（`lighter`）。丧尸七种：行尸（拖腿、中弹踉跄 `e.stag`）、疯跑者（死后抽搐）、爬行者（`ai:"leap"` 近身扑咬，无预警）、肥尸（死后爆炸 + 酸池，波及其他丧尸）、喷吐者（站桩，酸液落地成池 `L.pools`）、巨尸（`ai:"slam"` 砸地，死后压死身边小怪）、护士长/零号。血越少走得越慢；尸体先在 `L.bodies` 播倒地动画再烙进地面图（`bake()`，血迹弹壳永久保留）；尸潮先响嘶吼、1.3 秒后才从 `L.spawnQ` 出现。镜头缓慢跟随，自动瞄准时用 `pl.va`（平滑朝向）且粘住当前目标，别改回直接跟枪口——用户反馈会晕。HUD 是军用风格（绿/琥珀色、切角、`SCORE`）。过场是**漫画分镜**：每句台词一格静态画面，一页三格、点一下切一格（`cutFrame/cutPanel`），不要改回会动的镜头。**v3 起**：剧情 22 关（`data.js` 里 `ROWS` 一行一关，自动生成 `YJ.LEVELS`；目标多了 `purge` 清剿 n 只；精英可用 `ename/look:"brute"` 换名字和造型；过场 `pre{章节下标}` 只在换幕时有）。**无尽模式**（`startLevel(-1)`，`def.endless`）：72 格大地图、没有出口，`updEndless()` 让威胁等级随时间和委托数上升，电台随机发委托 `YJ.MISSIONS`（回收物资/启动信标/猎杀/清巢，`L.mis`），完成掉奖励，最佳成绩存 `P.best`；安全屋里「无尽模式」按钮进入。角色是**预渲染精灵表**（`render.js` 的 `ART[type]` 画 64×64、3 层 × 4 帧走路 + 一行纯白受击帧，`sheet()` 缓存；每个形状 2px 描边 + 径向渐变 + 高光）。墙是立体方块：顶面（上层 canvas，整体偏移 `SX,-WH`）最亮、左侧面中等、正面最暗；角色和墙顶**按行交替绘制**（画家算法），影子朝背光方向拉长。用户要求 2.5D 分步做：墙和影子已做，角色立体化/地面透视/特效高度等用户确认后再做。测试：`node tests/yj-ui.js 22`（4 倍速跑完 22 关）、`node tests/yj-endless.js`。**v4 起人物是斜 3/4 视角的骨骼人体**（取代 v3 的俯视精灵表）：`render.js` 的 `pose()` 在三维里摆关节（髋/膝/踝/肩/肘，腿用两段反解算膝盖；8 帧走路循环：脚跟着地→支撑→脚尖离地→屈膝前摆，手臂反向摆，骨盆上下起伏），`DRESS[type]` 给骨架加衣服装备（胶囊/球/四边形部件，带细描边和明暗），`figure()` 投影（`PX/YK/ZK`）并按远近排序绘制。主角每帧实时画（朝向连续）；丧尸用 `cell()` 缓存成小图（右半边 9 个朝向 × 8 帧 + 站立帧，左半边镜像，换关清空）。步态相位 `o.gp` 由 `gait()` 按**实际移动距离 / 步幅周期 `CYC`** 推进，所以脚不打滑；别改回按时间播。子弹曳光按枪口高度抬高 30px 画。镜头比例 `Rn.sc = 短边/450`（用户嫌画面太大，别再拉近）。**v5 起人物画法**：仍是骨骼投影，但不再用圆/胶囊拼接——躯干和头是椭圆截面的凸包（`F.sect/F.pts/F.ell` → `hull2` → 二次贝塞尔闭合曲线），四肢是多段首尾相接的锥形（`F.limb`，上粗下细），`figure()` 先给所有部件描一遍外边、再按远近填渐变色，所以只有整个人最外圈有细描边、内部没有接缝。用户明确不要"圆柱拼接/卡通色块"，别改回去。**装备战力（v5）**：词条存的是基础值，实际数值 `YJ.affV(it, x)` 随物品等级放大（生命类每级 +6%，百分比每级 +3%，穿透/弹丸不变）；词条数量只看稀有度（2/3/4 条），数值浮动只有 70%–100%；`YJ.power(it)` = (部位基础分 + 词条成色分) × 等级系数，同稀有度高等级一定更高（用户硬性要求）。各武器基础秒伤已拉平，额外弹丸每发只 +40% 总伤害。旧存档在 `YJ.load` 里按 `sv` 迁移。**v6 起（用户要"2020 年代手游品质"，并规定顺序：先主角 → 验收 → 再丧尸 → 最后场景特效，不要一次全改）**：`figure()` 的上色流程升级为 投影（把部件按光向拍到地面的真实影子）→ 同色系深色描边（不用纯黑）→ 亮/中/暗三层渐变 + 布料噪点（`noisePat`，金属色在 `METAL` 集合里改为高光条）→ 每块一处高光。主角 `DRESS.player` 已补全细节（盔沿、夜视仪支架、背心四个弹匣袋、肩章、护肘护膝、手套、鞋带鞋底、枪托/机匣/弹匣/护木纹/红点/战术灯），并有开火后坐 4 帧、受击后仰闪白 2 帧、死亡倒地 6 帧（`pose()` 的 `o.rec/lean/dead`）。**v7**：用户验收主角通过，丧尸已按同规范重画（`rot/bite/gash/bone` 四个细节助手：皮肤斑块、咬痕、撕口、露骨；每种 ≥5 处细节）。丧尸精灵格的帧号：0–7 走路、8 站立、9–12 攻击（`e.atk` 计时，蓄力时用前两帧）、13–14 受击（`e.flash`/`e.stag`）、15–20 死亡（`L.bodies` 里播 6 帧 + 血泊扩散，疯跑者多抽搐一会儿，最后一帧由 `drawBody` 烙进地面图；死亡帧眼睛熄灭）。走路带左右摇晃（`BODY.sway`）和歪头（`side`）。**v8**：用户说 v7 的丧尸"像拼装玩具"，要"像人被感染成的"。改法（别改回去）：丧尸走 `humanoid` 的 `S.z` 分支——四肢有肌肉起伏（大腿中段、小腿肚、上臂、前臂各加一个点）、手臂瘦（`thin`）、衣服比身体宽（`loose`，袖口裤腿是开口，上衣不扎进裤子）、有手掌手指、耳朵鼻子、三种发型；姿势驼背/屈膝/垂肩（`BODY.hunch/crouch/drop`），行尸一只手半抬一只手垂着（`arm:"zombie"`）；肤色是灰败的人肤色而不是鲜绿，感染痕迹用 `veins()` 发黑血管 + 嘴到胸口的血；上色对非主角（`org`）降低明暗反差、去掉每块高光（只有脓包等 `WET` 颜色保留）、部件间用柔和压暗代替硬边，精灵格最后再整体罩一层"越往下越暗"。**注意**：往一行代码中间插 `// 注释` 会把后面的代码吃掉（v8 出过一次：喷吐者 `M.sac` 丢失导致报错）。**场景和特效还没按新规范做，是下一步（等用户确认丧尸）。****v10 = 回到 v8**：v9 曾按用户上传的 PNG 素材包做过"贴图/骨架拼装角色"并改了移动、攻击、波次刷怪逻辑，用户看完决定不要，要求恢复到 v8（代码画的"感染者"丧尸）并删掉全部主角/丧尸贴图。现在 `yujin/` 里只留了用户的两份需求文档 `movement-logic.md`、`2026-spec.md`（没有实现，仅存档）；v9 的代码在 git 历史和 `yujin-v9-png` 分支里，除非用户再提，不要再往贴图方向做。用户多次要求"改用 SVG"：实际用的是画布上的贝塞尔矢量路径（主角要连续转向、实时画，SVG 图片做不到），已向用户说明。地图边长别超过 72 格（两张整图 canvas，iPhone 内存有限）。测试：起本地服务后 `node tests/yj-ui.js`（`?bot=1&fast=4` 自动驾驶连打全部关卡，机器人只受 12% 伤害；加 `land` 参数测横屏）。改了文件要把 `yujin/sw.js` 的 `CACHE` 和 `data.js` 的 `VERSION` +1。
+- `yujin/` = **余烬·尸潮**：单人俯视角丧尸射击 + 刷装备（类孤胆枪手 + 流放之路），**不联网、不登录**，存档在 `localStorage yj.save`。Canvas 2D，格子地图（`YJ.TILE=40`，房间+走廊随机生成），手电筒视野用射线（`YJ.ray`）算光照多边形。文件：`data.js`（武器/词条/传说特效/天赋/敌人/5 个关卡 `YJ.LEVELS`/过场剧情 `YJ.SCENES`，版本号 `YJ.VERSION`）、`game.js`（引擎：地图生成、敌人 AI、子弹、掉落、关卡目标、测试用自动驾驶）、`render.js`（地面/墙顶两层预渲染 + 光照）、`audio.js`（现场合成音效与氛围乐，`YJ.Audio.play/mood/tension`）、`ui.js`（标题、过场动画 `UI.cutscene` 的手绘背景 `PAINT`、安全屋、背包/天赋面板、HUD、触屏双摇杆/键鼠、主循环）、`index.html`、`sw.js`（缓存 `yujin-vN`）。流程：标题 → 过场 → 安全屋（整理装备）→ 关卡 → 到出口后要「守门」若干秒（`L.holdOn/holdP`）→ 结算 → 下一段过场。关卡目标五种：exit / collect / elite / activate / boss。通关后 `P.ng+1` 进噩梦难度（敌人等级 `L.lvl = def.lvl + ng*8`）。**画面风格（v2 起）**：阴暗金属基地（钢板/铁栅格/管道/警示条，五个主题只是配色不同），大面积黑暗 + 手电锥形光，枪口火光和爆炸瞬间照亮；角色分层画出 2.5D 立体感（`lay()`：脚、身体、头依次抬高，墙高 `WH=24`）；曳光弹、红眼、火光画在黑暗层之上（`lighter`）。丧尸七种：行尸（拖腿、中弹踉跄 `e.stag`）、疯跑者（死后抽搐）、爬行者（`ai:"leap"` 近身扑咬，无预警）、肥尸（死后爆炸 + 酸池，波及其他丧尸）、喷吐者（站桩，酸液落地成池 `L.pools`）、巨尸（`ai:"slam"` 砸地，死后压死身边小怪）、护士长/零号。血越少走得越慢；尸体先在 `L.bodies` 播倒地动画再烙进地面图（`bake()`，血迹弹壳永久保留）；尸潮先响嘶吼、1.3 秒后才从 `L.spawnQ` 出现。镜头缓慢跟随，自动瞄准时用 `pl.va`（平滑朝向）且粘住当前目标，别改回直接跟枪口——用户反馈会晕。HUD 是军用风格（绿/琥珀色、切角、`SCORE`）。过场是**漫画分镜**：每句台词一格静态画面，一页三格、点一下切一格（`cutFrame/cutPanel`），不要改回会动的镜头。**v3 起**：剧情 22 关（`data.js` 里 `ROWS` 一行一关，自动生成 `YJ.LEVELS`；目标多了 `purge` 清剿 n 只；精英可用 `ename/look:"brute"` 换名字和造型；过场 `pre{章节下标}` 只在换幕时有）。**无尽模式**（`startLevel(-1)`，`def.endless`）：72 格大地图、没有出口，`updEndless()` 让威胁等级随时间和委托数上升，电台随机发委托 `YJ.MISSIONS`（回收物资/启动信标/猎杀/清巢，`L.mis`），完成掉奖励，最佳成绩存 `P.best`；安全屋里「无尽模式」按钮进入。角色是**预渲染精灵表**（`render.js` 的 `ART[type]` 画 64×64、3 层 × 4 帧走路 + 一行纯白受击帧，`sheet()` 缓存；每个形状 2px 描边 + 径向渐变 + 高光）。墙是立体方块：顶面（上层 canvas，整体偏移 `SX,-WH`）最亮、左侧面中等、正面最暗；角色和墙顶**按行交替绘制**（画家算法），影子朝背光方向拉长。用户要求 2.5D 分步做：墙和影子已做，角色立体化/地面透视/特效高度等用户确认后再做。测试：`node tests/yj-ui.js 22`（4 倍速跑完 22 关）、`node tests/yj-endless.js`。**v4 起人物是斜 3/4 视角的骨骼人体**（取代 v3 的俯视精灵表）：`render.js` 的 `pose()` 在三维里摆关节（髋/膝/踝/肩/肘，腿用两段反解算膝盖；8 帧走路循环：脚跟着地→支撑→脚尖离地→屈膝前摆，手臂反向摆，骨盆上下起伏），`DRESS[type]` 给骨架加衣服装备（胶囊/球/四边形部件，带细描边和明暗），`figure()` 投影（`PX/YK/ZK`）并按远近排序绘制。主角每帧实时画（朝向连续）；丧尸用 `cell()` 缓存成小图（右半边 9 个朝向 × 8 帧 + 站立帧，左半边镜像，换关清空）。步态相位 `o.gp` 由 `gait()` 按**实际移动距离 / 步幅周期 `CYC`** 推进，所以脚不打滑；别改回按时间播。子弹曳光按枪口高度抬高 30px 画。镜头比例 `Rn.sc = 短边/450`（用户嫌画面太大，别再拉近）。**v5 起人物画法**：仍是骨骼投影，但不再用圆/胶囊拼接——躯干和头是椭圆截面的凸包（`F.sect/F.pts/F.ell` → `hull2` → 二次贝塞尔闭合曲线），四肢是多段首尾相接的锥形（`F.limb`，上粗下细），`figure()` 先给所有部件描一遍外边、再按远近填渐变色，所以只有整个人最外圈有细描边、内部没有接缝。用户明确不要"圆柱拼接/卡通色块"，别改回去。**装备战力（v5）**：词条存的是基础值，实际数值 `YJ.affV(it, x)` 随物品等级放大（生命类每级 +6%，百分比每级 +3%，穿透/弹丸不变）；词条数量只看稀有度（2/3/4 条），数值浮动只有 70%–100%；`YJ.power(it)` = (部位基础分 + 词条成色分) × 等级系数，同稀有度高等级一定更高（用户硬性要求）。各武器基础秒伤已拉平，额外弹丸每发只 +40% 总伤害。旧存档在 `YJ.load` 里按 `sv` 迁移。**v6 起（用户要"2020 年代手游品质"，并规定顺序：先主角 → 验收 → 再丧尸 → 最后场景特效，不要一次全改）**：`figure()` 的上色流程升级为 投影（把部件按光向拍到地面的真实影子）→ 同色系深色描边（不用纯黑）→ 亮/中/暗三层渐变 + 布料噪点（`noisePat`，金属色在 `METAL` 集合里改为高光条）→ 每块一处高光。主角 `DRESS.player` 已补全细节（盔沿、夜视仪支架、背心四个弹匣袋、肩章、护肘护膝、手套、鞋带鞋底、枪托/机匣/弹匣/护木纹/红点/战术灯），并有开火后坐 4 帧、受击后仰闪白 2 帧、死亡倒地 6 帧（`pose()` 的 `o.rec/lean/dead`）。**v7**：用户验收主角通过，丧尸已按同规范重画（`rot/bite/gash/bone` 四个细节助手：皮肤斑块、咬痕、撕口、露骨；每种 ≥5 处细节）。丧尸精灵格的帧号：0–7 走路、8 站立、9–12 攻击（`e.atk` 计时，蓄力时用前两帧）、13–14 受击（`e.flash`/`e.stag`）、15–20 死亡（`L.bodies` 里播 6 帧 + 血泊扩散，疯跑者多抽搐一会儿，最后一帧由 `drawBody` 烙进地面图；死亡帧眼睛熄灭）。走路带左右摇晃（`BODY.sway`）和歪头（`side`）。**v8**：用户说 v7 的丧尸"像拼装玩具"，要"像人被感染成的"。改法（别改回去）：丧尸走 `humanoid` 的 `S.z` 分支——四肢有肌肉起伏（大腿中段、小腿肚、上臂、前臂各加一个点）、手臂瘦（`thin`）、衣服比身体宽（`loose`，袖口裤腿是开口，上衣不扎进裤子）、有手掌手指、耳朵鼻子、三种发型；姿势驼背/屈膝/垂肩（`BODY.hunch/crouch/drop`），行尸一只手半抬一只手垂着（`arm:"zombie"`）；肤色是灰败的人肤色而不是鲜绿，感染痕迹用 `veins()` 发黑血管 + 嘴到胸口的血；上色对非主角（`org`）降低明暗反差、去掉每块高光（只有脓包等 `WET` 颜色保留）、部件间用柔和压暗代替硬边，精灵格最后再整体罩一层"越往下越暗"。**注意**：往一行代码中间插 `// 注释` 会把后面的代码吃掉（v8 出过一次：喷吐者 `M.sac` 丢失导致报错）。**场景和特效还没按新规范做，是下一步（等用户确认丧尸）。****v10 = 回到 v8**：v9 曾按用户上传的 PNG 素材包做过"贴图/骨架拼装角色"并改了移动、攻击、波次刷怪逻辑，用户看完决定不要，要求恢复到 v8（代码画的"感染者"丧尸）并删掉全部主角/丧尸贴图。现在 `yujin/` 里只留了用户的两份需求文档 `movement-logic.md`、`2026-spec.md`（没有实现，仅存档）；v9 的代码在 git 历史和 `yujin-v9-png` 分支里，除非用户再提，不要再往贴图方向做。**v11 起主角和大部分丧尸用用户提供的 3D 模型**：原始模型是 `yujin/military soldier 3d model (3).glb`（主角）和 `yujin/zombie 3d model (2).glb`（丧尸），Tripo 生成、各 30 多万面、**没有骨骼和动画**、共 32MB——手机没法实时渲染，游戏也不加载它们。做法是离线预渲染：`tests/yj-3d/render.html`（three.js）按游戏的斜俯视镜头（俯角 50°）把模型从各朝向、各动作渲染成图集，`node tests/yj-3d/render.js hero|zombie` 输出 `yujin/m3d/<名>.png` + `<名>.js`（每格相对脚下的偏移、主角枪口位置；用法写在 render.js 开头，需要 `npm i three` 和 8766 端口的本地服务）。模型没骨骼，动作是在 render.html 里按几何位置给腿/手臂分组、绕髋/肩转动做出来的（`CFG` 里的 hip/foot/sh/hand 坐标是量出来的）：走路 = 两条腿前后交换（模型本来就是迈步姿势），丧尸手臂小幅摆；丧尸攻击 = 抬臂前扑 4 帧；倒地 = 向后仰倒 6 帧。图集行号：主角 0–7 走路、8 站立、9–14 倒地（24 个朝向）；丧尸 0–7 走路、8 站立、9–12 攻击、13–18 倒地（16 个朝向）。`render.js`（游戏里）的 `M3/Z3/m3draw/drawPlayer3/drawEnemy3/drawBody3` 按朝向和动作取格子画；行尸/疯跑者/喷吐者/肥尸/巨尸/精英/Boss 共用丧尸图集，靠 `Z3` 里的换色和缩放区分（换色格子用到才生成，换关清空）；爬行者仍是代码画的。图集没加载完时回退到 v8 的 `figure()` 画法。用户只让"替换成 3D 模型"，没要求改玩法，所以逻辑仍是 v8 的。仓库里还有用户更早传的 `hero.glb`、`zombie_*.glb`（小的积木模型）、`3d-spec.md`、`preview.html`，没用到也没删。用户多次要求"改用 SVG"：实际用的是画布上的贝塞尔矢量路径（主角要连续转向、实时画，SVG 图片做不到），已向用户说明。地图边长别超过 72 格（两张整图 canvas，iPhone 内存有限）。测试：起本地服务后 `node tests/yj-ui.js`（`?bot=1&fast=4` 自动驾驶连打全部关卡，机器人只受 12% 伤害；加 `land` 参数测横屏）。改了文件要把 `yujin/sw.js` 的 `CACHE` 和 `data.js` 的 `VERSION` +1。
 - `luanzhan/` = **苍澜·乱战**，一个纯前端网页游戏（PWA），**写实地形地图、深色战争风界面**的实时国战卡牌策略游戏（v17 起不再是水墨风）。
 - 线上地址（**GitHub Pages**，从 main 分支根目录发布，推送后 1–2 分钟自动上线，不限次数）：https://lixufeng958-max.github.io/canglan/ （大厅）、`/canglan/luanzhan/`（苍澜）、`/canglan/qingshu/`（情书）、`/canglan/yujin/`（余烬）。Firebase「已获授权的网域」里已加 `lixufeng958-max.github.io`。
 - 旧地址 https://donglin-luanzhan.netlify.app 已停更：Netlify 免费额度按每次发布扣，一天推太多次被用光（显示 Skipped due to account credit usage exceeded）。
